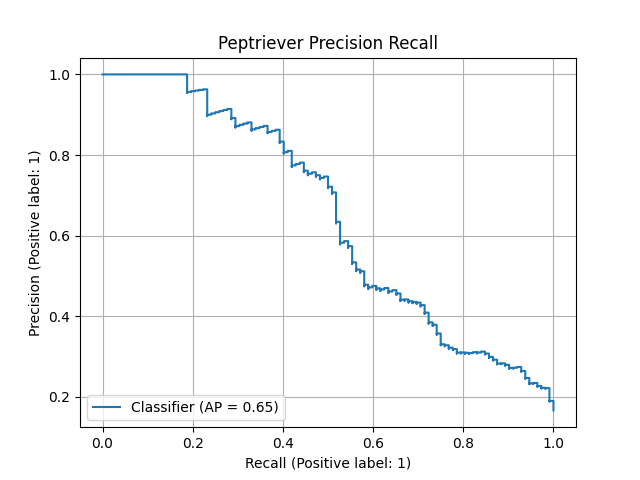
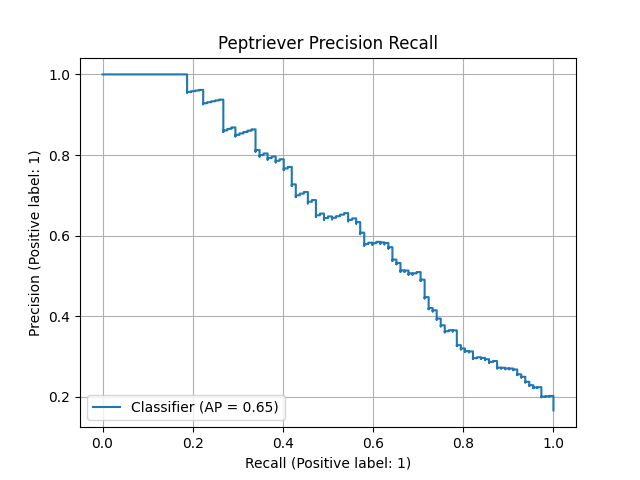
embeddings dim increased to 512

Changed region(s): [[0.5625, 0.5625, 0.875, 0.8438], [0.4062, 0.2812, 0.625, 0.5625], [0.3125, 0.1875, 0.4375, 0.3125]]

diff --git a/peptriever/finetuning/loss.py b/peptriever/finetuning/loss.py
@@ -18,7 +18,7 @@ class EuclideanMarginLoss:
         loss = torch.clip(
             pos_dist[:, None] - all_dist + self.margin * max_dist,
             0,
-            max_dist * (1 + self.margin)
+            max_dist * (1 + self.margin),
         )
         loss = loss.fill_diagonal_(0).sum(dim=-1) / (loss.shape[1] - 1)
         return loss.mean()

diff --git a/peptriever/finetuning/config.py b/peptriever/finetuning/config.py
@@ -13,7 +13,7 @@ class FinetuningConfig:
     tokenizer1_max_length = 30
     tokenizer2_max_length = 300
 
-    encoded_sequence_dims: int = 128
+    encoded_sequence_dims: int = 512
     models_path: Path = Path("/data/models")
 
     @property
